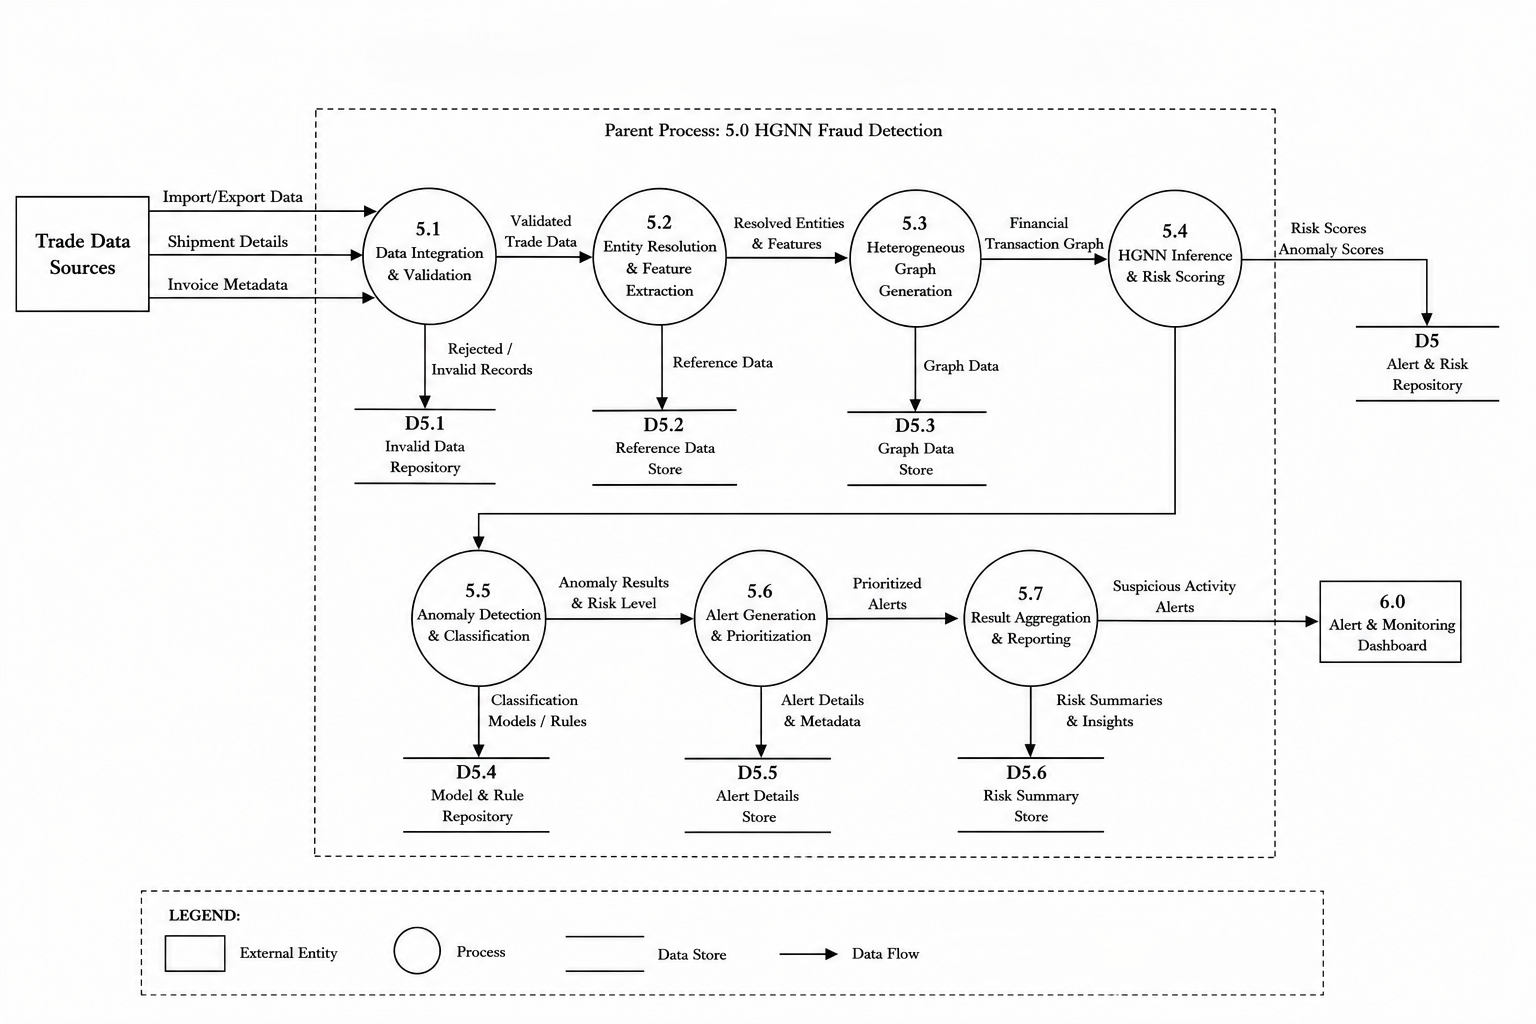
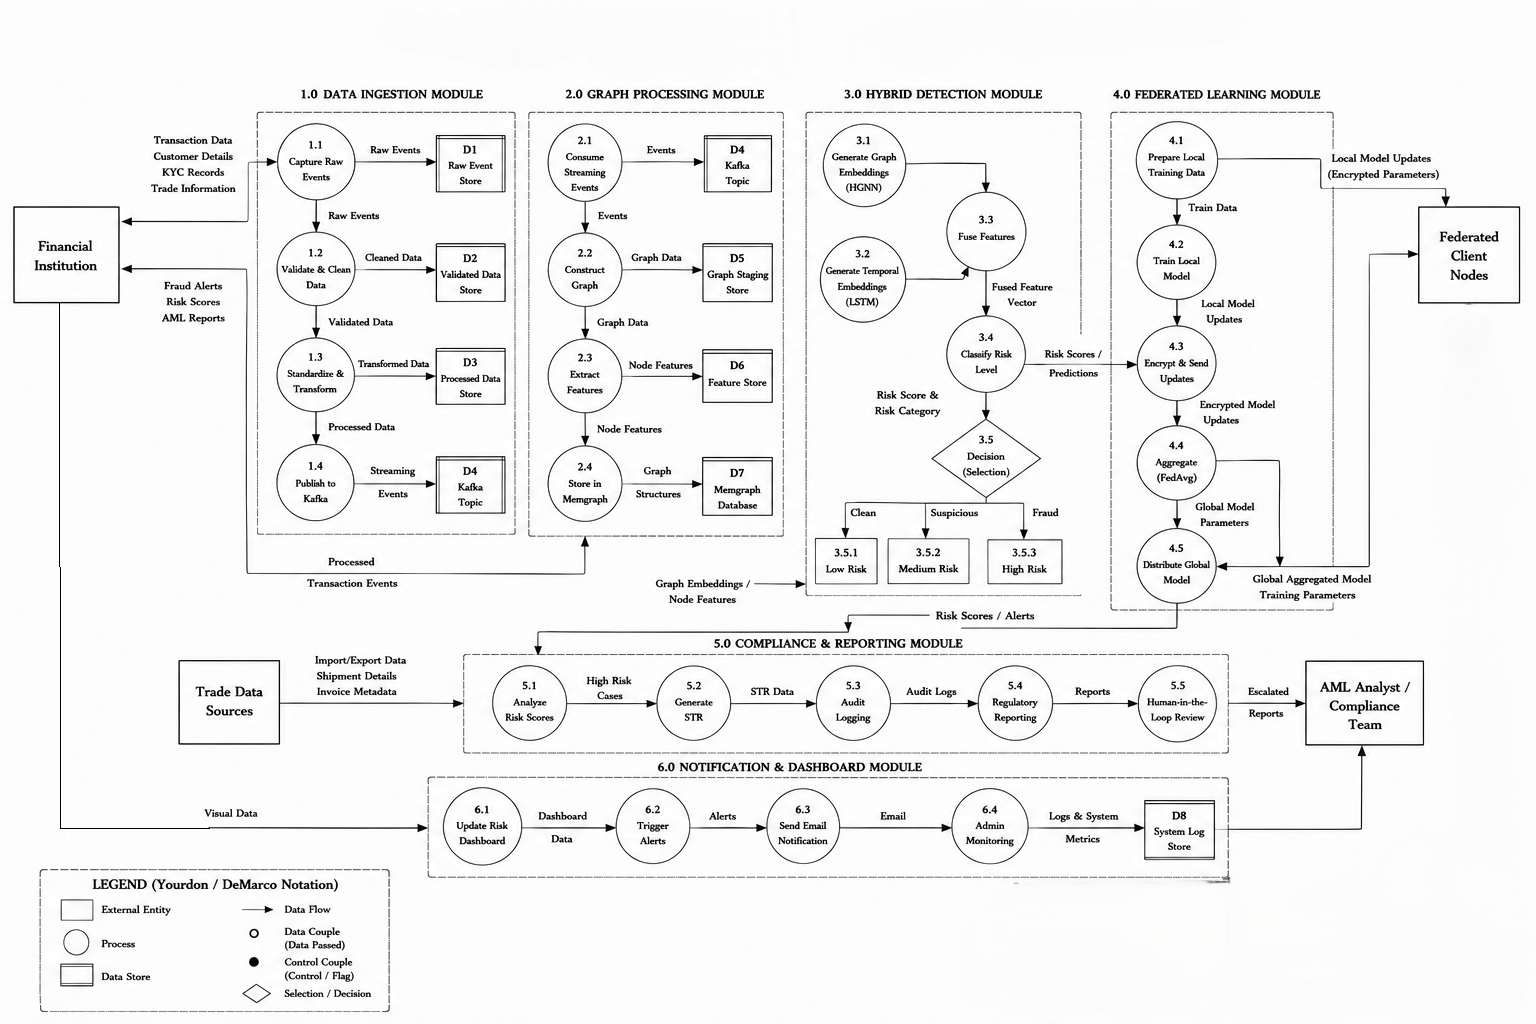
Updated Chapter 5 detailed design and added academic structure chart

diff --git a/Chapter5/chapter5-detaileddesign.tex b/Chapter5/chapter5-detaileddesign.tex
@@ -14,7 +14,7 @@ The frontend layer provides dashboard interfaces, transaction monitoring service
 The federated learning layer enables privacy-preserving collaborative model training and global model synchronization between participating institutions. Database services manage transactional storage, graph relationships, audit logs, and compliance-related records, while the compliance layer supports STR generation, regulatory reporting, email notifications, and monitoring operations. The overall structural organization of the proposed TBML detection framework is illustrated in Figure~\ref{fig:structure_chart}.
 \begin{figure}[H]
     \centering
-    \includegraphics[height=0.95\textheight]{Figures/tbml_final_academic_structure_chart.png}
+    \includegraphics[width=\textwidth]{Figures/tbml_academic_structure_chart.png}
     \caption{Structure Chart of the Proposed TBML Detection Framework}
     \label{fig:structure_chart}
 \end{figure}
